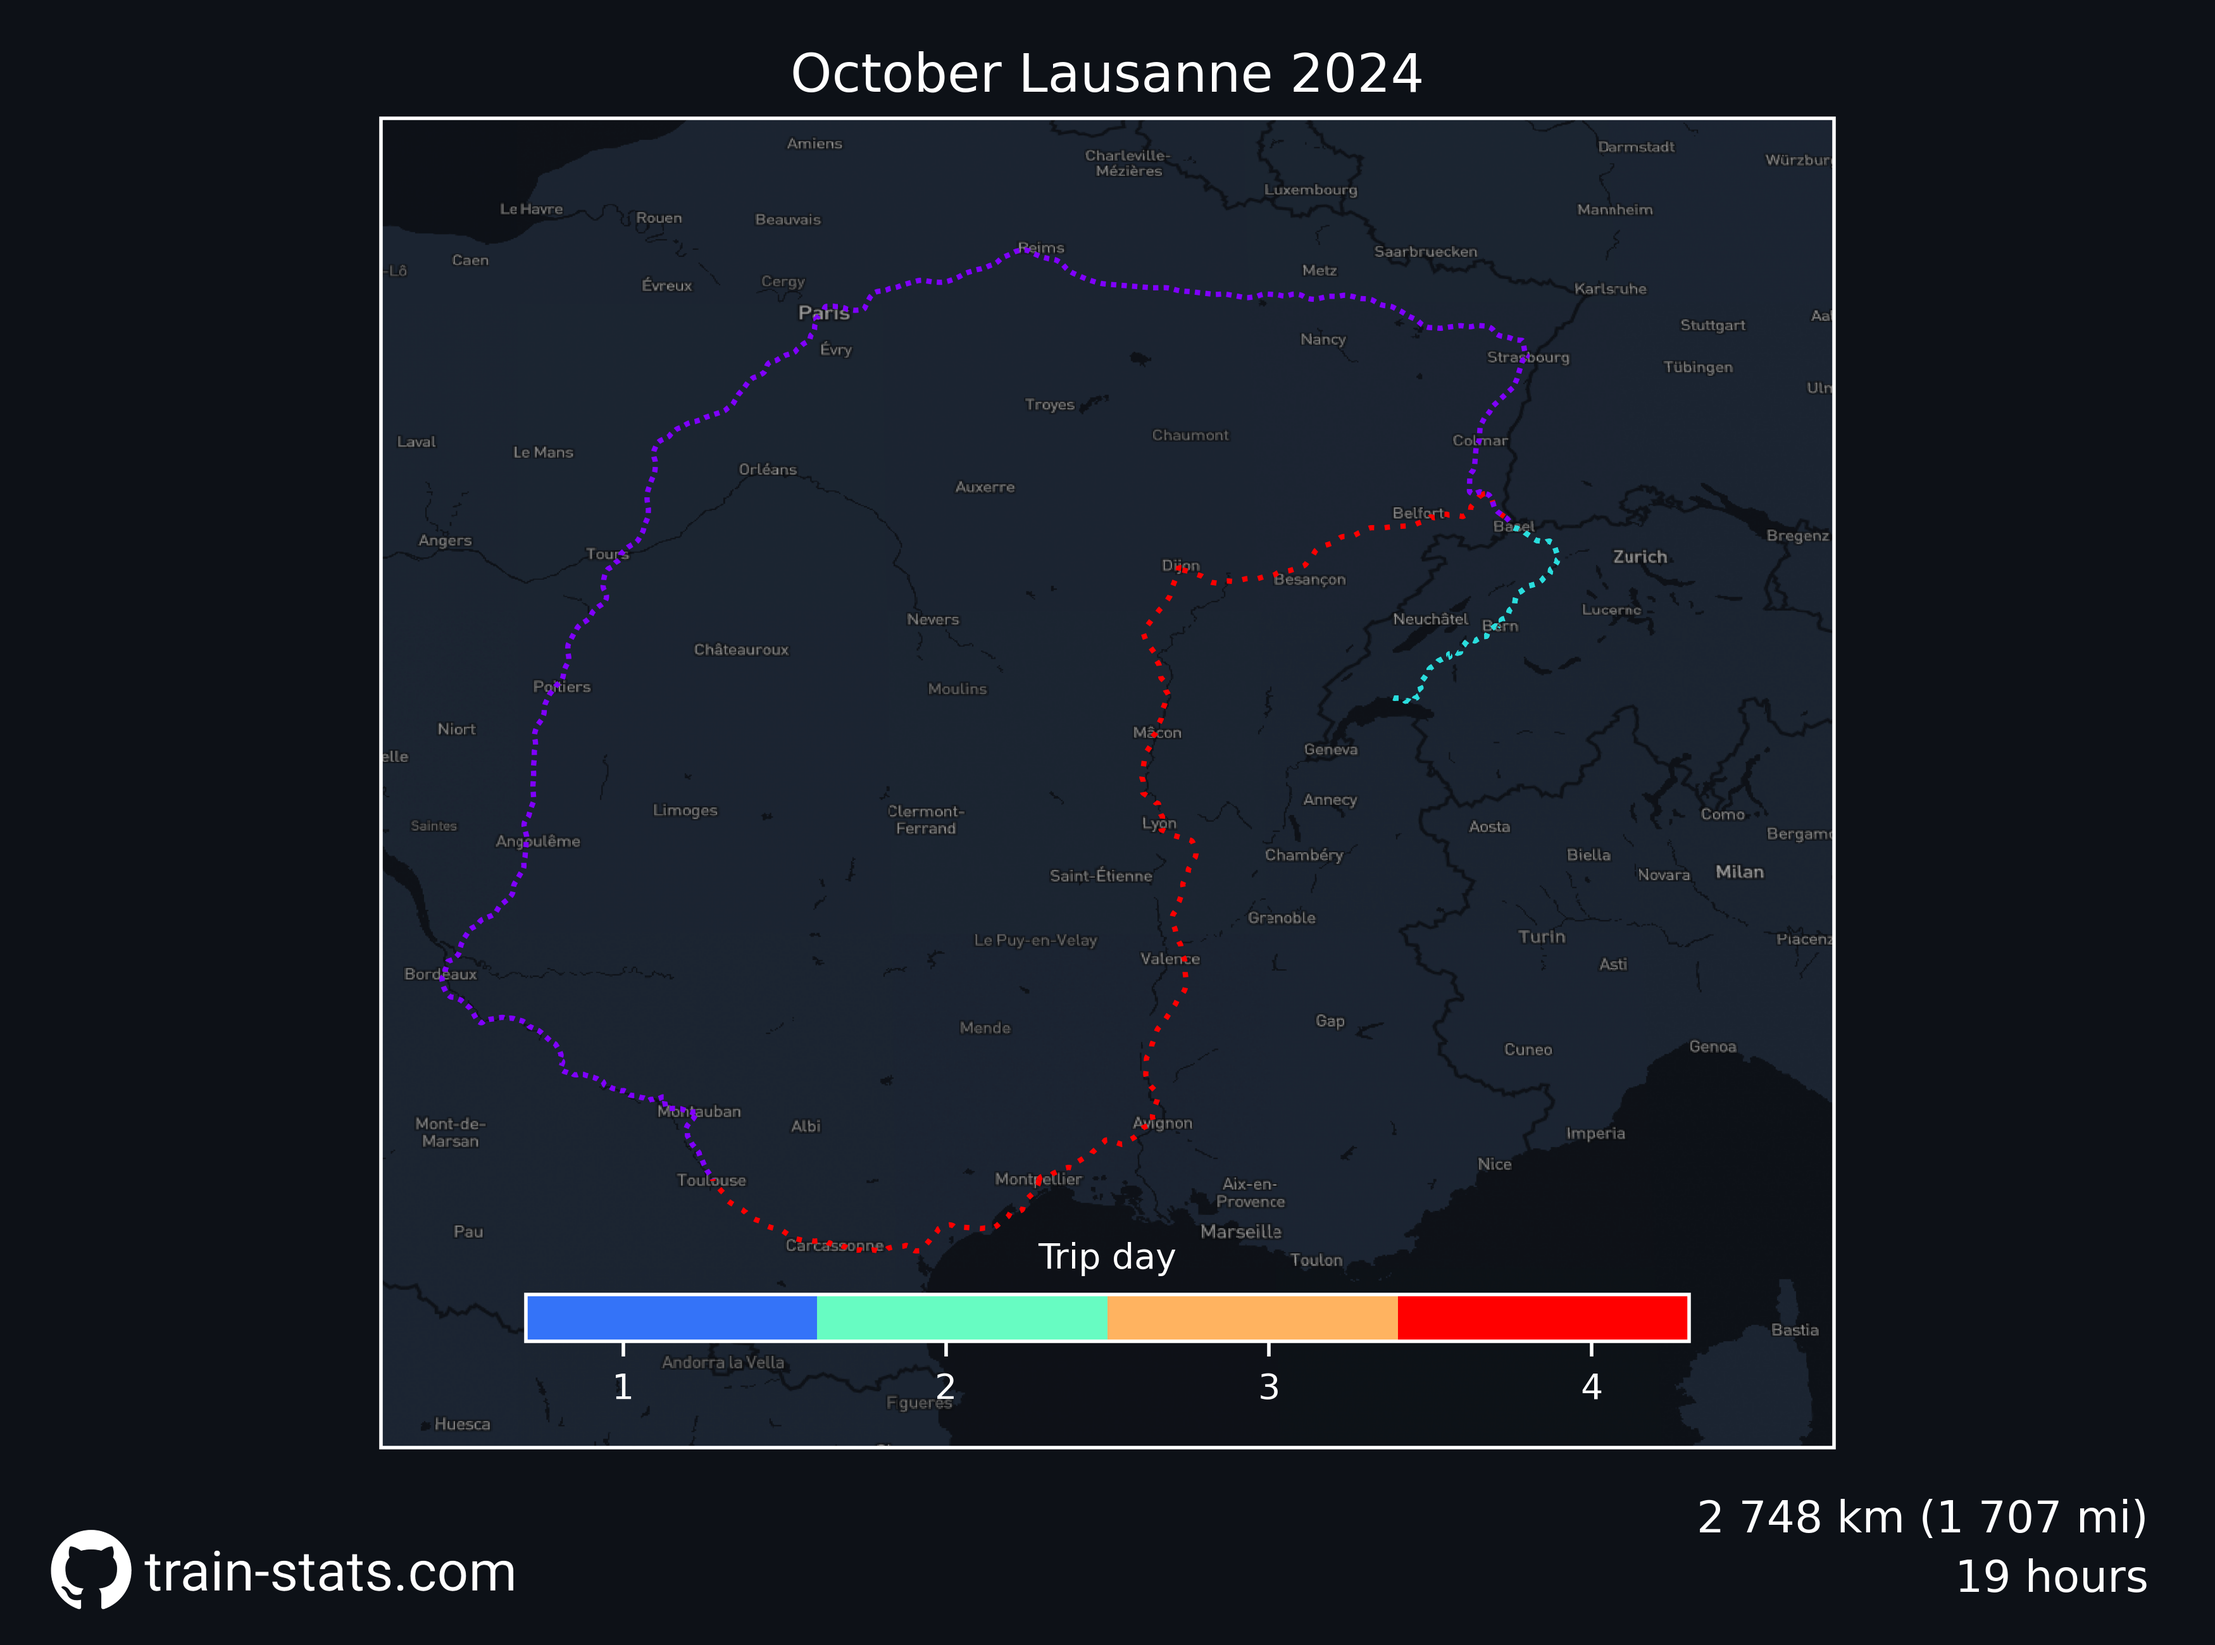
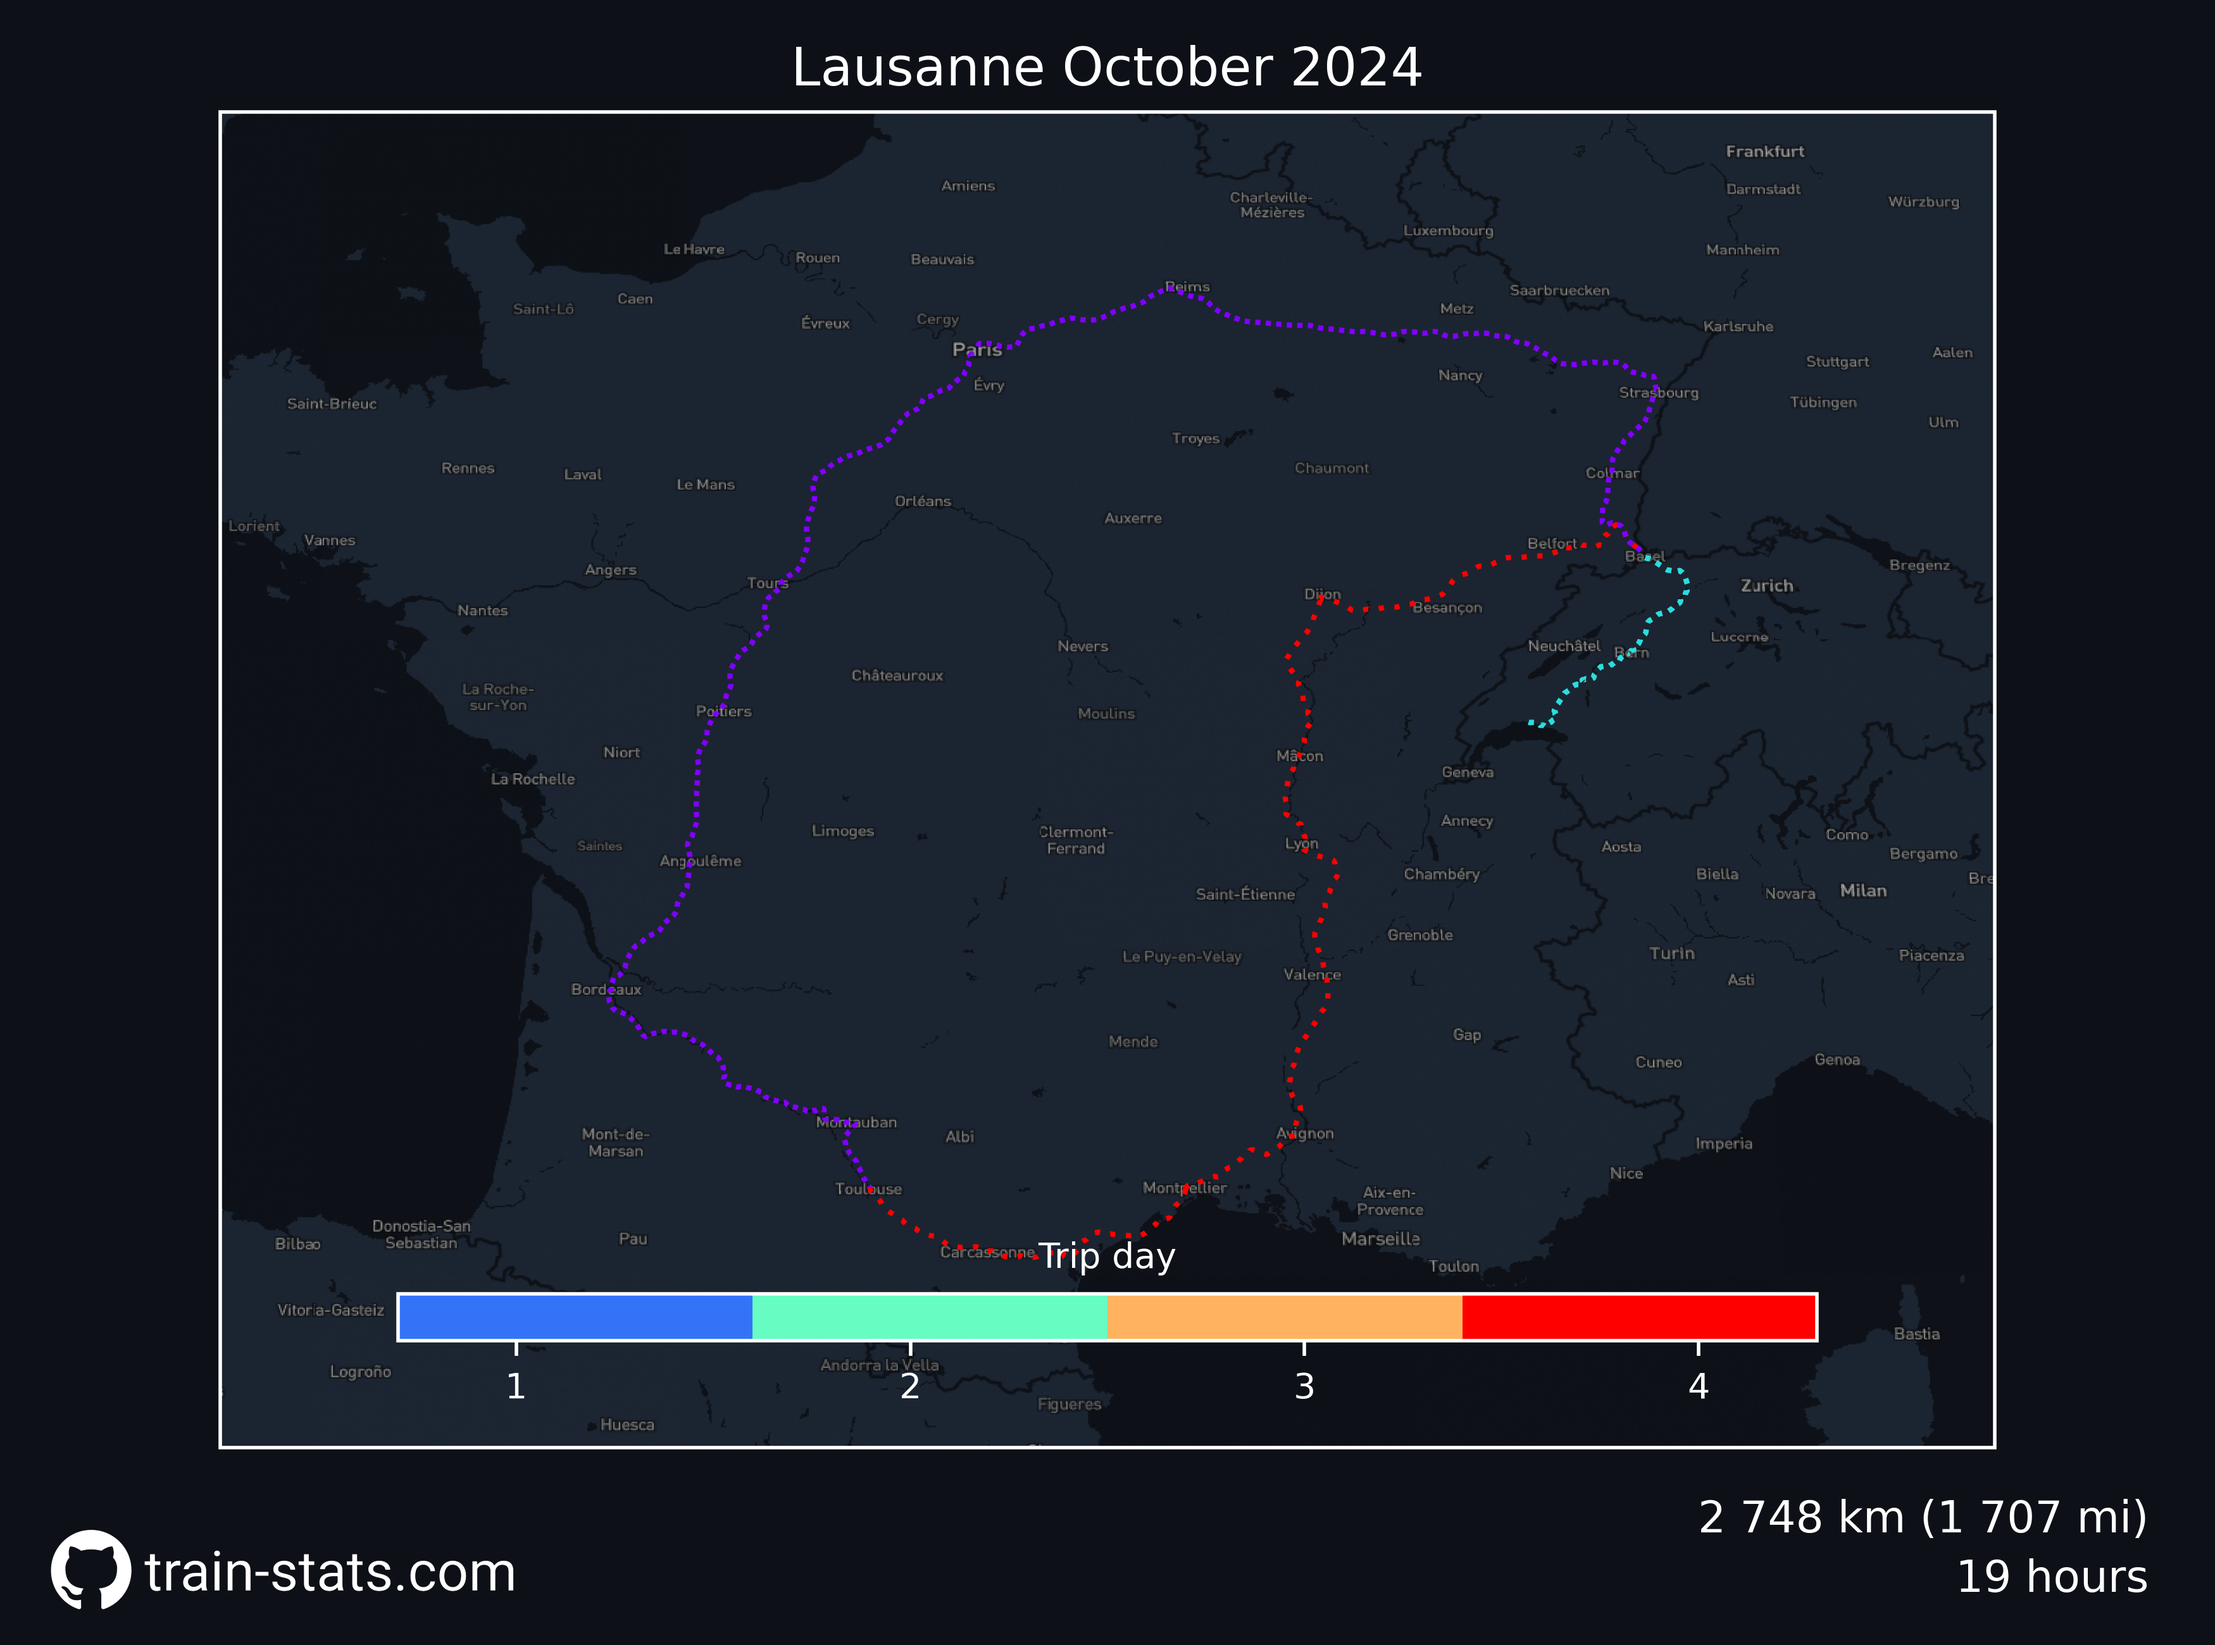
update lausanne oct 24 plot code

diff --git a/src/plotsCodes/october_lausanne_2024.py b/src/plotsCodes/october_lausanne_2024.py
@@ -17,10 +17,10 @@ START = datetime(2024, 10, 3, 0, 0, 0, tzinfo=PARIS_TZ)
 END = datetime(2024, 10, 6, 23, 59, 59, tzinfo=PARIS_TZ)
 
 # Setup map boundaries
-LON_MIN = -1
-LON_MAX = 9.7
+LON_MIN = -3.5
+LON_MAX = 10
 LAT_MIN = 42
-LAT_MAX = 50
+LAT_MAX = 50.2
 ZOOM_LEVEL = 7
 
 
@@ -87,7 +87,7 @@ def plot_october_lausanne_2024(trips, mapbox_style_token, mapbox_style_id):
     plt.setp(plt.getp(cbar.ax, 'xticklabels'), color='white', fontsize=12)
 
     ax[0].set(
-        title="October Lausanne 2024",
+        title="Lausanne October 2024",
     )
     plt.tight_layout()
 
